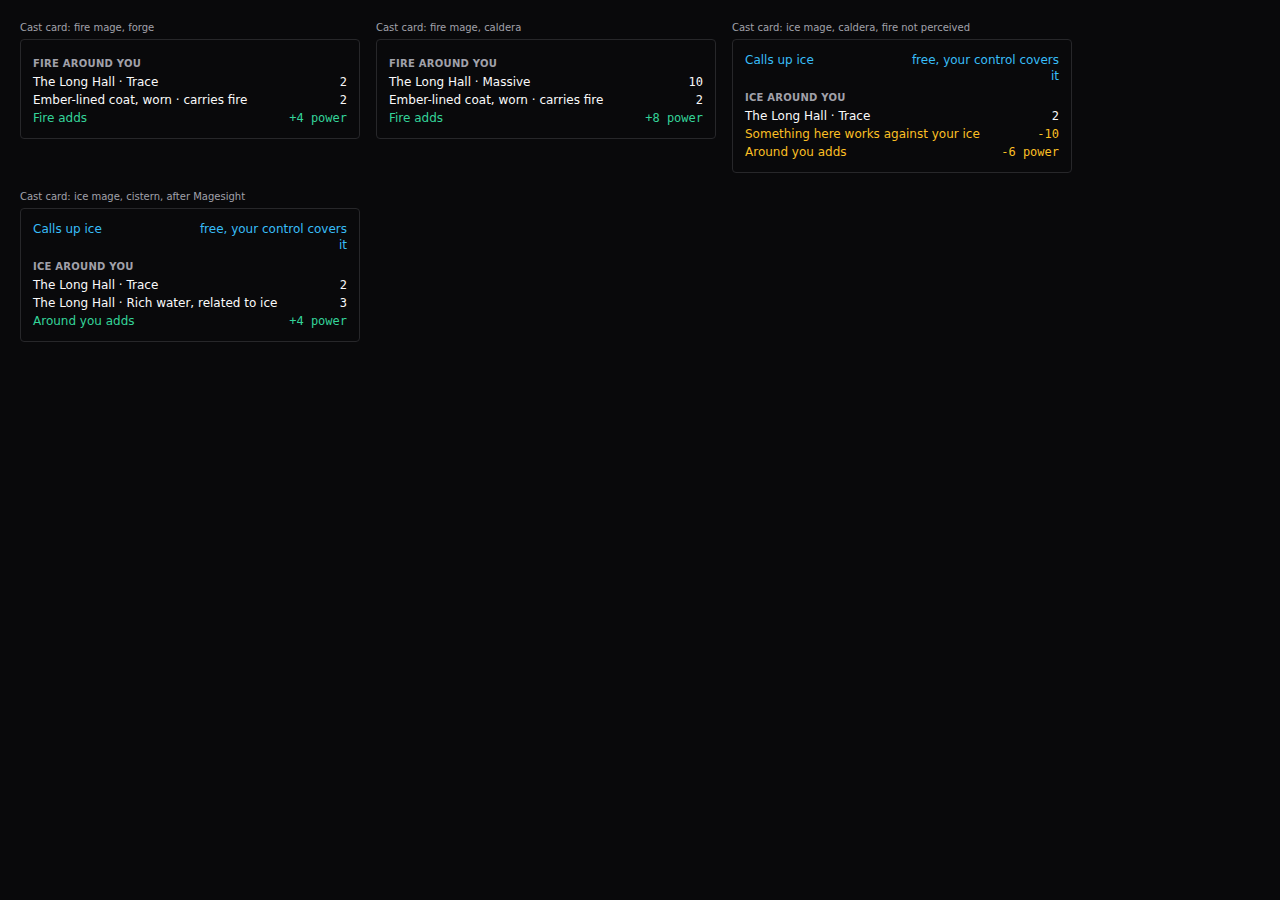
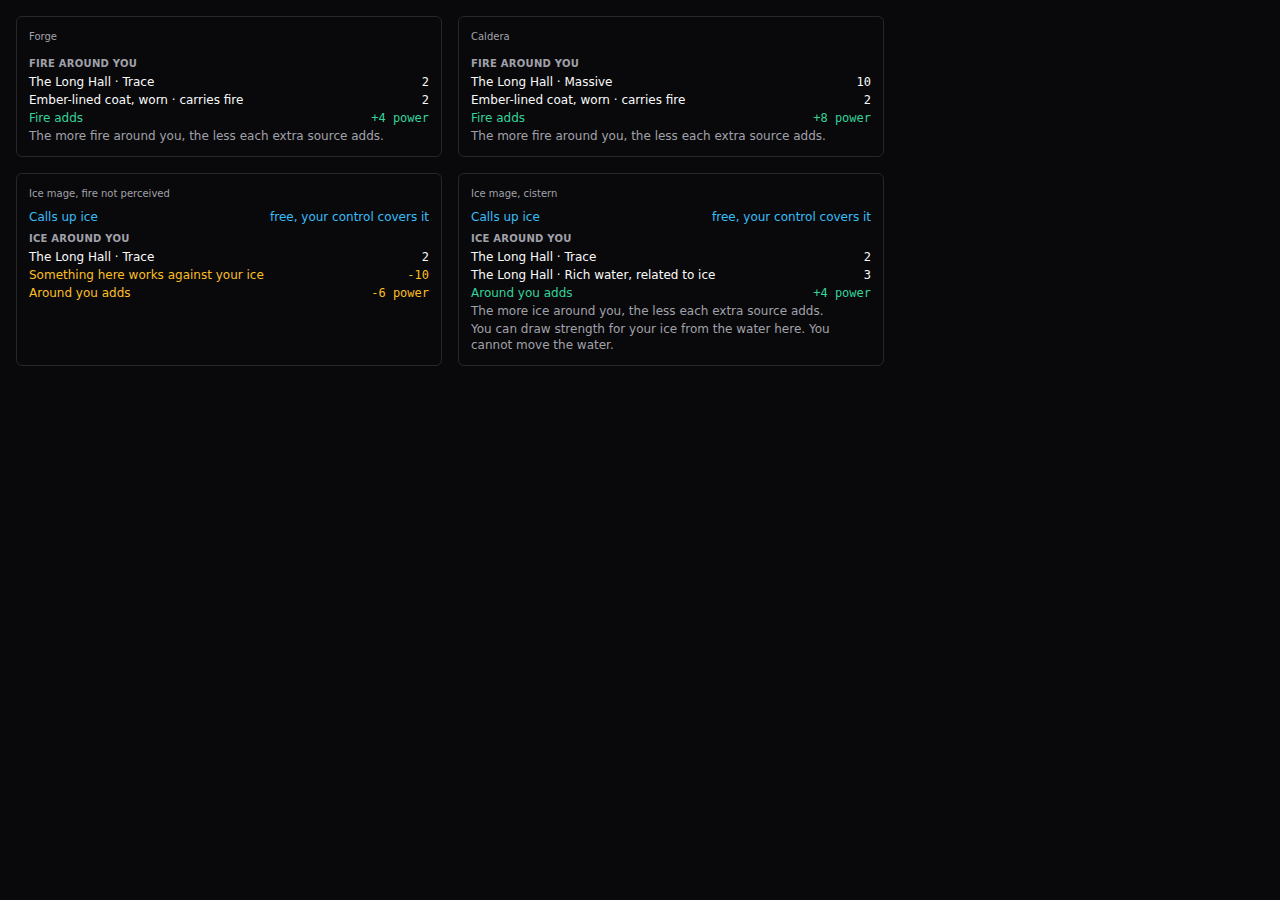
Demo fidelity re-review of #5125 at f42e9d68f: one defect left (Add another link)

diff --git a/docs/reviews/5125/demo-fidelity.md b/docs/reviews/5125/demo-fidelity.md
@@ -1,39 +1,39 @@
-# Demo fidelity review: #5125 Substances and Primum
+# Demo fidelity review: #5125 Substances and Primum (re-review after the pre-PR fixes)
 
 ## Header
 
 | Item | Value |
 |---|---|
-| Reviewed commit | `854d11fafea01ad078ed4798de071ce722f1099d` (branch `feature-5125-substances-and-primum-what-a-gift-works`) |
+| Reviewed commit | `f42e9d68f6269985cb69469e7d0c9941f2f37570` (branch `feature-5125-substances-and-primum-what-a-gift-works`). The first review was of `854d11faf`; the fixes landed in `6c9fb25a2..f42e9d68f`. |
 | Approved design | https://claude.ai/artifact/3AVFkN2kC9i1qJVAhtYrhq (issue #5125 body, "Demo (approved reference once this spec is approved)"), five screens |
-| How the design was read | The `Artifact` tool was not available to this reviewer. The demo was read from the HTML file that the coordinator's own `Artifact read` saved earlier in the session (`tool-results/artifact-11856231-1794882759-ae91.html`, saved 2026-11-17 06:39). That file matches the coordinator's working copy of the demo (`scratchpad/5125/substances-primum-demo.html`) apart from the page wrapper lines. If staff edited the artifact after that read, this review does not cover the edit. |
+| How the design was read | The `Artifact` tool is not available to this reviewer, so the demo was read again from the saved copy used in round one (`scratchpad/rv/demo.html`, the coordinator's `Artifact read` output) and the five reference renders `demo-screen1.png` to `demo-screen5.png`, which were re-opened side by side with every new screenshot. If staff edited the artifact after that read, this review does not cover the edit. |
 | Reference screenshots | `demo-screen1.png` to `demo-screen5.png` (the demo HTML rendered at 1280x900) |
-| Environment | Local devcontainer, SQLite test tier, Django test client for admin, Vite 6.4.5 dev server on port 3457 (stopped afterwards) plus headless Chromium 1208 for the React surfaces. No production or dev database was touched. |
-| Viewport and theme | 1280x900. Admin: light theme (Django admin default). React surfaces: both light and dark (`-light.png` and `-dark.png`). |
-| Owner rulings applied as non-defects | (a) removed fields and relabels, (b) telnet verb `extract`, (c) "Costs N AP", (d) a living creature's Primum does not feed a cast, (e) "Something here strengthens your <own>" |
+| Environment | Local devcontainer, SQLite test tier. Admin pages through the Django test client; React surfaces through a throwaway Vite 6.4.5 page on port 3457 (stopped by pid afterwards, no `just stop`) and headless Chromium 1208. No production or dev database was touched. All throwaway files (two test modules, the Vite page) were deleted before the commit. |
+| Viewport and theme | 1280x900. Admin: light theme. React surfaces: both light and dark (`-light.png` and `-dark.png`). |
+| Rulings applied as non-defects | Owner rulings from round one: removed fields and relabels, telnet verb `extract`, "Costs N AP", a living creature's Primum does not feed a cast, "Something here strengthens your <own>". Controller rulings for this round: the Gift form's last help sentence reads "Minor Gifts have no substance." because the form refuses a substance on a Minor Gift; the "Magesight / Good success" header is the cast result's own display, not the room panel; the unperceived-card extra lines are the spec's approved call-up-to-Trace. |
 
 ## Fixture versus live boundary
 
-- **Live, real code:** admin pages are the real `ModelAdmin` pages rendered through the Django test client against test data built with the branch's factories. Their HTML was saved with its linked admin stylesheets and scripts resolved from disk (`base.css`, `forms.css` and its `@import widgets.css`, `autocomplete.css`, `arx_admin.css`, `SelectFilter2.js` and the others), then screenshotted. The page content is cropped to `#content` (the admin sidebar is hidden to keep the image readable).
-- **Payloads are real server output.** Every JSON shape the React screens consume (room-frame `primum` block, `cast_preview.surroundings`, combat opponent `harvest_offers`, `harvest_primum` dispatch result, crafting quote, item detail with `carries`) was produced by the branch's own serializers and services in throwaway journey-style tests, then deleted. The journeys' `JourneyCase` base is tagged postgres, so they were run once each on the SQLite tier (`arx test --sqlite`, one class at a time); they passed.
-- **React components are the real ones** (`PrimumPanel`, `HarvestPanel` through `PrimumPanel`, `HarvestRow`, `SurroundingsLines`, `CraftingQuotePanel`, `ItemDetailPanel`) mounted in a throwaway Vite page (deleted afterwards) inside the real Redux store and a react-query client.
-- **Fixture boundary:** `window.fetch` in the harness answered the dispatch POST with the recorded real `harvest_primum` result (a mock for the network hop only) and returned empty lists for unrelated item-panel queries. The cast cards show only the surroundings lines (`SurroundingsLines`), not the surrounding cast card shell, so the demo's Cancel and Cast buttons were not rendered. The slain foe row is a minimal wrapper (name and status) around the real `HarvestRow`; the real `CombatantsList` row was not mounted. `AttachFacetDialog` was not mounted; the facet quote shares `CraftingQuotePanel`, which was.
-- **Not rendered:** the Primum step, power curve and harvest outcome inlines on the config admin, the Place Primum and Creature Primum inlines, telnet output other than the `look` line (the journeys' own assertions cover `extract`; see Findings for what they show).
+- **Live, real code:** admin pages are the real `ModelAdmin` pages rendered through the Django test client against rows built with the branch's factories (fire with three stored relationships and a harvest item, a Pyromancy Gift with fire picked). The HTML was saved with every linked admin stylesheet and script resolved from disk, including `forms.css` and the `widgets.css` it imports, then screenshotted with the sidebar hidden. The page is the exact server output, so the script order it contains is the order a browser would run.
+- **Payloads are real server output.** Every JSON shape the React screens consume was produced again by this round's throwaway journey classes (subclasses of the branch's own `_Caldera`, `_PrimumCraft` and `_IceField` journeys, run once on the SQLite tier with `arx test --sqlite`): the room frame `primum` block for three viewers, the combat opponent `harvest_offers` (with the thread bonus), the `harvest_primum` dispatch results for a place and a slain foe, the four `cast_preview.surroundings` cards (including the forge and caldera cards with a worn coat made by the real craft path), the crafting quote for a required Common-or-better Primum and for an optional one, the item detail seen by another character, and the telnet `look` and `extract` output.
+- **React components are the real ones** (`PrimumPanel`, `HarvestPanel` through it, `HarvestRow`, `SurroundingsLines`, `CraftingQuotePanel`, `ItemDetailPanel`) mounted in the real Redux store and a react-query client.
+- **Fixture boundary:** `window.fetch` in the harness answered only the dispatch POST with the recorded real `harvest_primum` result (a mock for the network hop) and returned empty lists for unrelated item-panel queries. The cast cards show only the surroundings lines (`SurroundingsLines`) inside a plain bordered box, not the cast card shell, so the demo's Cancel and Cast buttons were not rendered. The slain-foe row is a minimal wrapper (name and "Slain") around the real `HarvestRow`; the real combat list row was not mounted. `AttachFacetDialog` was not mounted; the facet quote shares `CraftingQuotePanel`, which was. The harvest check line shows "Check: Harvest Primum" because that is the authored check type's name in the test data.
+- **Not rendered:** the Primum step, power curve and harvest outcome inlines on the config admin, the Place Primum and Creature Primum inlines, and telnet output other than what the payload dumps captured (see Findings).
 
 ## Screenshots
 
-Admin (light, 1280 wide): `admin-substance.png`, `admin-gift.png`, `admin-itemtemplate-harvesting.png`, `admin-itemtemplate.png`.
-React, each in `-light` and `-dark`: `fe-s2-room-pyromancer`, `fe-s2-room-no-perception`, `fe-s2-room-magesight`, `fe-s3-cast-cards` (four cards on one page), `fe-s4-harvest-panel`, `fe-s4-harvest-panel-result`, `fe-s4-foe-before`, `fe-s4-foe-after`, `fe-s5-crafting-quote`, `fe-s5-crafting-quote-ticked`, `fe-s5-item-carries`.
+Admin (light, 1280 wide): `admin-substance.png`, `admin-substance-inlines-js-after-jquery-init.png` (the same page with only the script order corrected, as evidence for F12), `admin-gift.png`, `admin-itemtemplate-harvesting.png`, `admin-itemtemplate.png` (both item template shots unchanged since round one, byte identical, so the page did not change).
+React, each in `-light` and `-dark`: `fe-s2-room-pyromancer`, `fe-s2-room-no-perception`, `fe-s2-room-magesight`, `fe-s3-cast-cards` (four cards on one page), `fe-s4-harvest-panel`, `fe-s4-harvest-panel-result`, `fe-s4-foe-before`, `fe-s4-foe-after`, `fe-s5-crafting-quote` (the required Common-or-better row), `fe-s5-crafting-quote-optional` (the optional row), `fe-s5-crafting-quote-ticked`, `fe-s5-item-carries`.
 
 ## Interactions exercised
 
-- Opened the Substance change page for fire with three relationships stored, and the Gift change page for Pyromancy with a substance picked.
-- Opened the Item template page for the Fire Primum template and expanded its Harvesting fieldset.
-- Room panel as a pyromancer (own-gift sense), as a character with no perception, and as a harvester after a sighting of fire and earth.
+- Opened the Substance change page for fire with three stored relationships and a harvest item set, and the Gift change page for Pyromancy with fire picked; loaded the substance page in headless Chromium with the console open and counted the "Add another relationship" link.
+- Opened the Item template page for Fire Primum and expanded its Harvesting fieldset.
+- Room panel as a pyromancer with a thread on her Gift, as a character with no perception, and as a harvester after sightings of fire and earth.
 - Clicked Harvest Primum on the room panel, saw the pick, check line, AP line, Cancel and Harvest, pressed Harvest and read the answer.
-- On a slain elemental: saw the sense line, check line, AP line and Harvest button, pressed Harvest and read the answer.
-- Cast cards for a fire mage at a forge and at a caldera with a worn coat, an ice mage at a caldera not perceiving fire, an ice mage at a cistern after a sighting.
-- Crafting quote for a recipe with optional Fire Primum, ticked the box; item detail of the crafted coat as seen by another character.
+- On a slain elemental viewed by the pyromancer: saw the sense line, check line with the thread bonus, AP line and Harvest button, pressed Harvest and read the answer.
+- Cast cards for a fire mage at a forge with a worn coat, at a caldera with the coat, an ice mage at the caldera not perceiving fire, and an ice mage at a cistern after a sighting.
+- Crafting quote for a recipe requiring Fire Primum, Common or better, and for one taking it optionally (ticked the box); item detail of the crafted coat as another character sees it.
 
 ## Visual checklist
 
@@ -41,47 +41,49 @@ Legend: MATCH (compared on screen against the demo image at the same viewport), 
 
 ### Screen 1 - Admin: one substance, its relationships, the Gift that works it (`demo-screen1.png` vs `admin-substance.png`, `admin-gift.png`, `admin-itemtemplate-harvesting.png`)
 
-| # | Demo element | Built | Status |
+| # | Demo element | Built (at `f42e9d68f`) | Status |
 |---|---|---|---|
-| 1.1 | Breadcrumb "Home > Magic > Substances > Fire", title "Change substance" | Django admin title "Change substance" and object name "fire" shown; breadcrumb is in the cropped-out header and is the stock admin one | MATCH-NOTE |
+| 1.1 | Breadcrumb "Home > Magic > Substances > Fire", title "Change substance" | Title "Change substance" and object name "fire"; the breadcrumb is in the cropped-out header and is the stock admin one | MATCH-NOTE |
 | 1.2 | Name field with help "What the cast card and the roll breakdown call it." | Present, same help | MATCH |
-| 1.3 | "Which room condition feeds it" pick, value "Heat", help "Picked from the room conditions the game already tracks." | Present, same label and help; the option reads "Heat exposure" (existing room-condition label) | MATCH-NOTE |
-| 1.4 | "Stronger when it is" pick, value "Higher" | Present; the option reads "Higher (wetter, windier or hotter, e.g. water, wind or fire)" and the help paragraph is longer than the demo shows | MATCH-NOTE |
+| 1.3 | "Which room condition feeds it" pick, "Heat", help "Picked from the room conditions the game already tracks." | Present, same label and help; the option reads "Heat exposure" (the existing room-condition label) | MATCH-NOTE |
+| 1.4 | "Stronger when it is" pick, "Higher" | Present; the option reads "Higher (wetter, windier or hotter, e.g. water, wind or fire)" with a longer help paragraph | MATCH-NOTE |
 | 1.5 | "Property added to every technique of this gift" with the long help line | Present with the same label and help, as an autocomplete with add/change links | MATCH |
-| 1.6 | "Item created by harvesting" pick (value "Fire Primum") with help "The item template a harvest of this substance makes." on the substance page | Absent from the substance page. The field exists only on the Item template page, inside a collapsed "Harvesting" fieldset, with different help text | GAP (finding F1) |
-| 1.7 | "Relationships" table: rows of Other substance pick, Kind pick (Opposed/Related), Delete box, "add another" | Two dual-list pickers, "Related to" and "Opposed to" (filter box, Choose and Remove arrows). No Kind column, no row table, no "add another" | GAP (finding F2) |
-| 1.8 | Relationship help "Each relationship is authored once and shows on both substances. Relationships never chain: light being related to fire says nothing about what light is to ice." | Help is split over the two lists: "A caster of one of these gets a share of this substance's benefit, and the other way round. Relationships never chain: ..." and "Each of these works against a caster of this substance, and the other way round." The "authored once and shows on both" sentence is gone | GAP (part of F2) |
-| 1.9 | Save button | Admin submit row: Save, Save as new, Save and continue editing, Delete | MATCH-NOTE |
-| 1.10 | Gift form shows Name, Kind (Major), Substance (fire) | All present with the rest of the existing Gift form around them; Substance is an autocomplete with "fire" picked | MATCH |
-| 1.11 | Gift Substance help "The one substance this Gift perceives and controls. Child Gifts inherit it unless they name their own. Minor Gifts usually leave this blank." | Help reads "The one substance this gift works through, such as fire or shadow. Every major gift has one and a minor gift has none." The child-inherits sentence is dropped, and "usually leave blank" became "has none" | GAP (finding F3) |
-| 1.12 | Old per-Gift inline with seven fields gone | No substance inline on the Gift page | MATCH |
-| 1.13 | Credit fields (Written by, Written on, Reviewed by, Reviewed on) not drawn in the demo | Drawn on the substance page (the standard credit block every authored model carries) | MATCH-NOTE |
+| 1.6 | "Item created by harvesting" pick (value "Fire Primum") with help "The item template a harvest of this substance makes." on the substance page | Now present on the substance page, same label and same help, with "Fire Primum" picked (`admin-substance.png`). Was F1 | MATCH |
+| 1.7 | "Relationships" table of rows: Other substance pick, Kind pick (Opposed/Related), Delete box | Now a "RELATIONSHIPS" table with OTHER SUBSTANCE, KIND and DELETE? columns, one row per stored relationship (earth Related, ice Opposed, light Related) and a blank row. Was F2 | MATCH |
+| 1.8 | "add another" link under the table | Absent on the page as served. `inlines.js` is linked before `jquery.init.js`, so it throws `Cannot read properties of undefined (reading 'fn')` and never builds the link; the same page with only the script order corrected shows "+ Add another relationship" and a remove icon (`admin-substance-inlines-js-after-jquery-init.png`) | GAP (finding F12) |
+| 1.9 | Help "Each relationship is authored once and shows on both substances. Relationships never chain: ..." | Present under the table, word for word | MATCH |
+| 1.10 | Save button | Admin submit row: Save, Save as new, Save and continue editing, Delete | MATCH-NOTE |
+| 1.11 | Gift form shows Name, Kind (Major), Substance (fire) | All present within the existing Gift form; Substance is an autocomplete with "fire" picked | MATCH |
+| 1.12 | Gift Substance help "The one substance this Gift perceives and controls. Child Gifts inherit it unless they name their own. Minor Gifts usually leave this blank." | Reads "The one substance this Gift perceives and controls. Child Gifts inherit it unless they name their own. Minor Gifts have no substance." The last sentence differs by controller ruling (the form refuses a substance on a Minor Gift). Was F3 | MATCH (ruling) |
+| 1.13 | Old per-Gift inline with seven fields gone | No substance inline on the Gift page | MATCH |
+| 1.14 | Credit fields (Written by, Written on, Reviewed by, Reviewed on) not drawn in the demo | Drawn on the substance page (the standard credit block every authored model carries) | MATCH-NOTE |
 
-CSS reach (finding class 1): the substance page links `base.css`, `forms.css` (which `@import`s `widgets.css`), `autocomplete.css`, `arx_admin.css`, `nav_sidebar.css` and `responsive.css`, and it renders as a styled admin page in the screenshots, so no unstyled-rule defect here. The pages use the stock `ModelAdmin`/`fieldset.module.aligned` markup, no `as_div` or hand-written labels.
+CSS reach (finding class 1): the substance, Gift and Item template pages link `base.css`, `forms.css` (which imports `widgets.css`), `autocomplete.css`, `arx_admin.css`, `nav_sidebar.css` and `responsive.css` and render as styled admin pages. The new relationship table uses the stock tabular inline markup (`.tabular.inline-related`, `.inline-heading`) that `forms.css` and `base.css` style, and it is drawn correctly. The new template `src/web/templates/admin/magic/substance/change_form.html` writes the inline markup by hand around the form's own formset, which is why the script-order problem in F12 is possible; the existing test asserts that `admin/js/inlines.js` is on the page but not that it runs after `jquery.init.js`.
 
 ### Screen 2 - A place: who perceives the Primum it holds (`demo-screen2.png` vs `fe-s2-*`)
 
 | # | Demo element | Built | Status |
 |---|---|---|---|
-| 2.1 | Pyromancer: card titled "You sense" with row "Fire Primum: Massive", no check needed | `fe-s2-room-pyromancer`: "YOU SENSE" heading (small caps) with "Fire Primum: Massive". A "Harvest Primum" button sits under it (allowed: a mage perceives her own substance, rule 26) | MATCH-NOTE |
+| 2.1 | Pyromancer: card titled "You sense" with row "Fire Primum: Massive", no check needed | `fe-s2-room-pyromancer`: "YOU SENSE" heading with "Fire Primum: Massive" and a Harvest Primum button (allowed: a mage perceives her own substance) | MATCH-NOTE |
 | 2.2 | Character with no perception sees only the room description | `fe-s2-room-no-perception`: nothing rendered under the description | MATCH |
-| 2.3 | After Magesight: "Magesight / Good success" header row | Not in the room panel. The technique's own result is a separate message, not part of the sense block | GAP (finding F4) |
-| 2.4 | After Magesight: rows "Fire Primum: Massive" then "Earth Primum: Trace" (strongest first) | `fe-s2-room-magesight`: both rows, in the order Earth Trace then Fire Massive | GAP (finding F5) |
-| 2.5 | "You see this until you leave the place." | Absent from the room panel and from the server payload | GAP (finding F4) |
-| 2.6 | Telnet `look` shows the same "You sense" line | Real `look` output ends "You sense earth Primum: Trace. You sense fire Primum: Rich." (one sentence per substance) | MATCH |
+| 2.3 | After Magesight: "Magesight / Good success" header row | Not in the room panel. By controller ruling this header is the cast result's own display | MATCH (ruling). Was F4 part 1 |
+| 2.4 | After Magesight: rows "Fire Primum: Massive" then "Earth Primum: Trace" (strongest first) | `fe-s2-room-magesight`: Fire Massive then Earth Trace. Was F5 | MATCH |
+| 2.5 | "You see this until you leave the place." | Present under the rows when any row came from a sighting, and absent for the pyromancer's own substance. Was F4 part 2 | MATCH |
+| 2.6 | Telnet `look` shows the same "You sense" line | Real `look` after the sightings ends "You sense fire Primum: Massive. You sense earth Primum: Trace." (strongest first, one sentence per substance); the pyromancer's `look` ends "You sense fire Primum: Massive." | MATCH |
 
 ### Screen 3 - Casting: one bonus from everything around them (`demo-screen3.png` vs `fe-s3-cast-cards-*.png`)
 
 | # | Demo element | Built | Status |
 |---|---|---|---|
-| 3.1 | Forge card: heading "Fire around you", source "The forge . Trace 1", source "Ember-lined coat, worn . carries fire 2", total "Fire adds +3 power" | Heading "FIRE AROUND YOU", "The Long Hall . Trace 2", "Ember-lined coat, worn . carries fire 2", "Fire adds +4 power". Same structure and wording; numbers differ because the demo's numbers are examples | MATCH |
-| 3.2 | Caldera card: "The Ashmouth Caldera . Massive 8", coat 2, "Fire adds +7 power" | "The Long Hall . Massive 10", coat 2, "Fire adds +8 power". Same structure | MATCH |
-| 3.3 | Caldera card hint "The more fire around you, the less each extra source adds." | Absent. No such string exists in the frontend or the server | GAP (finding F6) |
-| 3.4 | Unperceived card: heading "Around you", one line "Something here works against your ice -6 power" | Heading "ICE AROUND YOU" with "Calls up ice, free, your control covers it", "The Long Hall . Trace 2", "Something here works against your ice -10", total "Around you adds -6 power". The foreign substance is not named, as designed. The extra lines come from the spec's recorded technical call that a cast with none of her substance calls it up to Trace | MATCH-NOTE (finding F7, scope note) |
-| 3.5 | Cistern card: "Around you", "The flooded cistern . Rich water, related to ice 3", "Related substances add +3 power" | "ICE AROUND YOU" heading, Trace 2, "The Long Hall . Rich water, related to ice 3", total "Around you adds +4 power". Source wording matches; total label differs because the ice Trace source is also present | MATCH-NOTE (F7) |
-| 3.6 | Cistern hint "You can draw strength for your ice from the water here. You cannot move the water." | Absent from the frontend and the server | GAP (finding F6) |
-| 3.7 | Heading drawn in small caps, power lines coloured, amounts right-aligned | Same: caps heading, right-aligned monospace amounts, green positive power, amber negative | MATCH |
-| 3.8 | Cancel and Cast buttons | Not rendered (cast card shell is untouched by this diff) | N/R |
+| 3.1 | Forge card: heading "Fire around you", "The forge . Trace 1", "Ember-lined coat, worn . carries fire 2", "Fire adds +3 power" | "FIRE AROUND YOU", "The Long Hall . Trace 2", "Ember-lined coat, worn . carries fire 2", "Fire adds +4 power". Same structure and wording; the numbers are the demo's examples | MATCH |
+| 3.2 | Caldera card: "The Ashmouth Caldera . Massive 8", coat 2, "Fire adds +7 power" | "The Long Hall . Massive 10", coat 2, "Fire adds +8 power" | MATCH |
+| 3.3 | Caldera hint "The more fire around you, the less each extra source adds." | Present on the caldera card, same words, muted style. Was F6 part 1 | MATCH |
+| 3.4 | Forge card has no hint | The same hint also shows on the forge card, because the rule adds it whenever two or more sources add points and the forge card has two (the place and the coat) | GAP (finding F13, minor) |
+| 3.5 | Unperceived card: heading "Around you", one line "Something here works against your ice -6 power" | "ICE AROUND YOU" with "Calls up ice, free, your control covers it", Trace 2, "Something here works against your ice -10", total "Around you adds -6 power". The foreign substance is not named. The extra lines come from the spec's recorded call that a cast calls her own substance up to Trace; the card has no hint | MATCH-NOTE (F7 scope note) |
+| 3.6 | Cistern card: "The flooded cistern . Rich water, related to ice 3", "Related substances add +3 power" | Trace 2, "The Long Hall . Rich water, related to ice 3", total "Around you adds +4 power". Source wording matches; the total label differs because her own Trace source is also present | MATCH-NOTE (F7) |
+| 3.7 | Cistern hint "You can draw strength for your ice from the water here. You cannot move the water." | Present, same words. The build also shows the taper hint above it (two sources add), which the demo's cistern card does not | MATCH (extra line is F13). Was F6 part 2 |
+| 3.8 | Heading in small caps, power lines coloured, amounts right-aligned | Same: caps heading, right-aligned monospace amounts, green positive power, amber negative | MATCH |
+| 3.9 | Cancel and Cast buttons | Not rendered (the cast card shell is untouched by this diff) | N/R |
 
 ### Screen 4 - Harvesting: from a place, and from a slain creature (`demo-screen4.png` vs `fe-s4-*`)
 
@@ -90,26 +92,27 @@ CSS reach (finding class 1): the substance page links `base.css`, `forms.css` (w
 | 4.1 | Title "Harvest Primum", label "Draw out" | Both present (`fe-s4-harvest-panel`) | MATCH |
 | 4.2 | Pick of "Fire Primum . Massive" and "Earth Primum . Trace" as chips | Same labels as radio buttons with the first selected, not chips | MATCH-NOTE |
 | 4.3 | Check line "Check: Wits + Harvesting" | "Check: Harvest Primum" (the authored check type's name) | MATCH-NOTE |
-| 4.4 | (ruling c) AP cost line | "Costs 2 AP" | MATCH |
+| 4.4 | AP cost line (ruling) | "Costs 2 AP" | MATCH |
 | 4.5 | Cancel and Harvest buttons | Both present, Harvest primary | MATCH |
-| 4.6 | Result "Good success. You draw out 2 Fire Primum (Fine)." | "Success. You draw out 2 Fire Primum (Fine)." (real server text, tier name differs with the forced outcome) | MATCH |
-| 4.7 | Result second line "The caldera now holds a Rich amount of fire Primum. It refills over many weeks." | "Fire Primum here is now Rich." The refill sentence and the place name are gone | GAP (finding F8) |
-| 4.8 | Slain foe: "The fire elemental is destroyed." heading and "Slain" tag | Not rendered (wrapper only); the real combat row was not mounted | N/R |
+| 4.6 | Result "Good success. You draw out 2 Fire Primum (Fine)." | "Success. You draw out 2 Fire Primum (Fine)." (the tier name follows the forced outcome) | MATCH |
+| 4.7 | Result second line "The caldera now holds a Rich amount of fire Primum. It refills over many weeks." | "The Ashmouth Caldera now holds a Rich amount of fire Primum. It refills slowly." (`fe-s4-harvest-panel-result`). Names the place and says whether and how it refills; "slowly" for "over many weeks" is a wording difference. Was F8 | MATCH-NOTE |
+| 4.8 | Slain foe: "The fire elemental is destroyed." heading and "Slain" tag | Wrapper shows the name and "(Slain)"; the real combat row was not mounted | N/R |
 | 4.9 | "You sense fire Primum in its remains." | Present, exact text (`fe-s4-foe-before`) | MATCH |
-| 4.10 | Check line "Check: Wits + Harvesting . +2 from your thread on Pyromancy (example)" | "Check: Harvest Primum". The thread-bonus half is not shown; the payload carries no bonus figure | GAP (finding F9) |
-| 4.11 | Harvest button, then "Success. You draw out 1 Fire Primum (Common)." and "Nothing more can be drawn from the elemental." | Harvest button present, answer "Success. You draw out 2 Fire Primum (Fine)." and "Nothing more can be drawn from elemental." (the article is missing) | MATCH-NOTE |
-| 4.12 | Telnet `extract fire` and `extract fire from elemental` | Verified only through the branch's own journeys (`test_primum_harvest_journeys`) which assert those two lines, not re-run here | N/R |
+| 4.10 | Check line "Check: Wits + Harvesting . +2 from your thread on Pyromancy" | "Check: Harvest Primum . +10 from your thread on Pyromancy" for the pyromancer with a level-200 thread; the figure is the real bonus. Was F9 | MATCH-NOTE |
+| 4.11 | Harvest button, then "Success. You draw out 1 Fire Primum (Common)." and "Nothing more can be drawn from the elemental." | Harvest button, "Success. You draw out 2 Fire Primum (Fine)." and "Nothing more can be drawn from elemental." (`fe-s4-foe-after`); the article is still missing | MATCH-NOTE (finding F14, minor) |
+| 4.12 | Telnet `extract fire` and `extract fire from elemental` | Bare `extract` now prints "You can extract fire Primum (Rich) here." then "Check: Harvest Primum . +10 from your thread on Pyromancy" then "Each attempt costs 2 AP, whatever you roll."; the place answer over telnet ends with the same place line as the web. The foe line over telnet was not re-captured | MATCH-NOTE |
 
 ### Screen 5 - Crafting: Primum as a material, for an item and for a facet (`demo-screen5.png` vs `fe-s5-*`)
 
 | # | Demo element | Built | Status |
 |---|---|---|---|
-| 5.1 | Coat recipe lists required materials ("Wool cloth . 2 have 4") and "Fire Primum . 1, Common or better have 3" | Quote panel shows an optional checkbox row "Fire Primum . 1 (optional)" with "have 1". There is no minimum-quality wording and the recipe is not drawn as a required-with-floor | GAP (finding F10) |
-| 5.2 | Facet recipe "Fire Primum . 1 (optional) have 2" | Same wording and layout for the optional row (shared `CraftingQuotePanel`); the facet dialog itself was not mounted | MATCH-NOTE |
-| 5.3 | "Check: Dexterity + Tailoring" line | Not shown; the panel shows "Skill cap: Common" and "On failure: ..." instead. The panel is existing code, not changed by this diff | GAP (finding F11) |
-| 5.4 | Craft and Attach buttons | Not part of the quote panel; N/R | N/R |
-| 5.5 | Result card "Ember-lined coat . Fine / Carries fire" | `fe-s5-item-carries`: item detail panel with "Carries fire" under the stats, shown from `carries: ["fire"]` that another character reads | MATCH |
-| 5.6 | Silver ring "Facet: Flame / Carries fire" | The same `carries` line renders on any item; a facet-attached item was not captured | N/R |
+| 5.1 | Coat recipe lists "Fire Primum . 1, Common or better have 3" | `fe-s5-crafting-quote`: "Fire Primum . 1, Common or better" with "have 3" at the right (red when short). Was F10 | MATCH |
+| 5.2 | Facet recipe "Fire Primum . 1 (optional) have 2" | `fe-s5-crafting-quote-optional` and `-ticked`: a tick box, "Fire Primum . 1 (optional)", "have 3" at the right; the facet dialog itself was not mounted | MATCH-NOTE |
+| 5.3 | "Check: Dexterity + Tailoring" line | "Check: Enchanting" (the recipe's check type name). The panel keeps its existing "Skill cap" and "On failure" lines. Was F11 | MATCH-NOTE |
+| 5.4 | Wool cloth row ("Wool cloth . 2 have 4") | The test recipe has no other material, so no second row was drawn; the row layout is the same one | N/R |
+| 5.5 | Craft and Attach buttons | Not part of the quote panel | N/R |
+| 5.6 | Result card "Ember-lined coat . Fine / Carries fire" | `fe-s5-item-carries`: item detail panel with "Carries fire" under the stats, shown to another character from `carries: ["fire"]` (quality reads Common in this data) | MATCH |
+| 5.7 | Silver ring "Facet: Flame / Carries fire" | The same `carries` line renders on any item; a facet-attached item was not captured | N/R |
 
 ## Criterion verdicts
 
@@ -117,35 +120,38 @@ CSS reach (finding class 1): the substance page links `base.css`, `forms.css` (w
 |---|---|---|
 | Report names the exact commit, environment, viewport and theme | PASS | Header |
 | Screenshots are committed files under `docs/reviews/5125/` | PASS | Screenshots section |
-| Approved design reached | PASS with caveat | Read from the coordinator's saved Artifact file; the live artifact was not reachable by this reviewer |
-| Finding class 1 (rule reaches the page) on the admin pages | PASS | Rendered with the stylesheets resolved from disk; `forms.css` and `widgets.css` reach the page |
+| Approved design reached | PASS with caveat | Read from the saved Artifact copy; the live artifact was not reachable by this reviewer |
+| Finding class 1 (rule reaches the page) on the admin pages | PASS | `forms.css` and `widgets.css` reach all three pages; the relationship table is styled |
+| Finding class 1 for behaviour (script reaches the page in a runnable order) | FAIL | F12: `inlines.js` runs before `jquery.init.js`, so "Add another relationship" never appears |
 | Finding class 2 (host CSS contract) | PASS | Stock admin markup; React uses the shared Tailwind tokens |
-| Screen 1 | FAIL | F1, F2, F3 |
-| Screen 2 | FAIL | F4, F5 |
-| Screen 3 | FAIL (copy) | F6; structure matches |
-| Screen 4 | FAIL (copy) | F8, F9 |
-| Screen 5 | FAIL (gaps) | F10, F11 |
-| Divergences covered by owner rulings | PASS | Removed fields, labels, `extract`, AP cost, unperceived wording all as ruled |
-| Overall | **FAIL** | Eleven findings; none block play, five change approved copy or layout |
+| Screen 1 | Matches with one gap | F12 |
+| Screen 2 | Matches | F4 and F5 fixed |
+| Screen 3 | Matches with one gap | F13 (taper hint also on the forge card); F6 fixed |
+| Screen 4 | Matches with one nit | F14; F8 and F9 fixed |
+| Screen 5 | Matches | F10 and F11 fixed |
+| Divergences covered by rulings | PASS | Gift help last sentence, Magesight header, call-up-to-Trace card lines, round-one rulings |
+| Overall | **FAIL (one defect)** | F12 is a real, demo-visible defect with a one-line fix; every other round-one finding is resolved or ruled |
+
+## Round-one findings and their status
+
+- **F1 (harvest item on the substance page):** fixed. Row 1.6.
+- **F2 (relationship rows):** fixed. Rows 1.7 and 1.9. The "add another" half is the new F12.
+- **F3 (Gift help):** fixed with the controller's ruling on the last sentence. Row 1.12.
+- **F4 (Magesight header and "You see this until you leave the place."):** the header is ruled the cast result's own display; the line is built. Rows 2.3 and 2.5.
+- **F5 (strongest first):** fixed in the panel, the payload and `look`. Rows 2.4 and 2.6.
+- **F6 (hint lines):** built. Rows 3.3 and 3.7. The rule is slightly too wide, see F13.
+- **F7 (call-up-to-Trace lines on the unperceived card):** ruled, the spec's approved call. Rows 3.5 and 3.6.
+- **F8 (place name and refill line):** fixed. Row 4.7.
+- **F9 (thread bonus on the check line):** fixed. Row 4.10.
+- **F10 (required Primum with a quality floor):** fixed. Row 5.1.
+- **F11 (check on the crafting card):** fixed. Row 5.3.
 
 ## Unresolved findings
 
-Each is a defect against the approved demo unless the note says it is a scope question for the human.
-
-- **F1 (defect or scope question):** The "Item created by harvesting" field is not on the Substance page. The demo draws it there (`demo-screen1.png`, annotation "the Harvested as field"). The build put `ItemTemplate.primum_substance` on the Item template page (`src/world/items/admin.py` line 317, label set in `src/world/items/template_admin_parts.py` line 117), as the technical design in the issue says ("`primum_substance` on `ItemTemplate`"). The demo and the technical design disagree, so the human decides which wins. If the demo wins, the substance form needs a field that reads the template the other way round.
-- **F2 (defect):** Relationships are two dual-list pickers (`SubstanceAdminForm.related_to` and `.opposed_to`, `src/world/magic/admin.py` lines 1188 to 1265), not the demo's table of rows with a Kind pick and "add another". The issue's technical design also says "SubstanceAdmin with relation inline". The two-list form is a reasonable answer to the pair-stored-once rule, but it is not the approved layout and drops the "authored once and shows on both substances" help line. Needs a human call.
-- **F3 (defect):** The Gift form's Substance help text dropped the approved wording: "Child Gifts inherit it unless they name their own. Minor Gifts usually leave this blank." (`GiftAdminForm.Meta.help_texts`, `src/world/magic/admin.py` line 1120).
-- **F4 (defect or scope question):** After Magesight the demo shows a "Magesight / Good success" header on the sense block and the line "You see this until you leave the place." Neither is built in `PrimumPanel` (`frontend/src/game/components/room-panel/PrimumPanel.tsx`) or in the room payload. The spec's scope does not say they are out.
-- **F5 (defect):** The sense rows are not strongest first. The demo lists Fire Massive above Earth Trace after a good-success Magesight; the real payload and panel list Earth Trace first (alphabetical). The spec says a plain success names the strongest, which implies strongest first.
-- **F6 (defect or scope question):** Two approved hint lines are not built: "The more fire around you, the less each extra source adds." on the caldera card, and "You can draw strength for your ice from the water here. You cannot move the water." on the cistern card. No such string exists in `frontend/src` or `src/world`. Not recorded in the spec as out of scope.
-- **F7 (scope note, not a defect):** An ice mage at the caldera who has not perceived the fire gets a card with "Calls up ice", an ice Trace source, the unnamed fire line and a total, not the demo's single unnamed line. This follows the spec's "Calls made in the technical design" (a cast calls her own substance up to Trace). It is listed so the human can confirm that call overrides the demo's single-line card.
-- **F8 (defect):** The place harvest answer's second line reads "Fire Primum here is now Rich." The demo's approved copy names the place and says how it refills: "The caldera now holds a Rich amount of fire Primum. It refills over many weeks." (`remaining_line` from the harvest service, `src/world/magic/services/harvest.py`).
-- **F9 (defect):** The slain-foe check line does not mention the thread bonus ("+2 from your thread on Pyromancy"). `HarvestOffer` carries only `check_name` and `ap_cost` (`frontend/src/hooks/types.ts`), so the bonus is not on screen even though the spec gives a matching thread a bonus on the check.
-- **F10 (scope question):** The demo's coat recipe draws Primum as a required material with a quality floor ("Common or better"). The build has only an optional flag (`CraftingMaterialRequirement.is_optional`) and no minimum-quality field, so a required Primum with a floor cannot be authored. The spec text says a recipe can require or optionally take Primum, but does not mention a floor.
-- **F11 (scope question):** The demo's crafting card shows "Check: Dexterity + Tailoring". The quote panel has never shown the check (it shows skill cap and failure risk) and this diff does not change that. Whether the approved design expected it to be added is the human's call.
-
-Minor wording differences that are not findings: "Heat exposure" and the longer "Higher (...)" option labels come from existing room-condition choice labels; "Nothing more can be drawn from elemental." drops the article.
+- **F12 (defect, finding class 1 for scripts):** The "Add another relationship" link the demo draws under the relationships table is not on the page. `SubstanceAdminForm`'s `Media` (`src/world/magic/admin.py` line 1358, `js = ["admin/js/inlines.js"]`) merges after `jquery.min.js` but before `jquery.init.js`, so `inlines.js` line 21 reads `django.jQuery` while it is still undefined, throws, and never defines `$.fn.formset`. Django's own inline media lists `jquery.js`, `jquery.init.js` and then `inlines.js`; listing the three in that order here fixes it. Evidence: `admin-substance.png` (no link) against `admin-substance-inlines-js-after-jquery-init.png` (the same HTML with only the script order changed: "+ Add another relationship" and a remove icon appear). Staff can still add one relationship per save through the blank row.
+- **F13 (defect, minor):** The taper hint "The more <name> around you, the less each extra source adds." shows on every card with two or more adding sources, including the forge card and the cistern card, where the demo shows it only on the caldera card (`fe-s3-cast-cards-light.png`). The demo's intent is that the hint appears where the curve is actually tapering the total; the build's rule fires earlier. The human may accept the wider rule; it is listed because the demo's forge card has none.
+- **F14 (nit):** "Nothing more can be drawn from elemental." still lacks the article the demo shows ("the elemental"); the sentence is written in `src/world/magic/services/harvest.py` (`remaining_line`) from `opponent.name`. The fix report already notes this.
 
 ## Proposed mechanical companion
 
-A `SubstanceAdminTests` assertion that the rendered substance change page contains a `<label>` for the harvest-item field and one row per stored relationship, so F1 and F2 cannot drift again, and a frontend test that `PrimumPanel` orders `sensed` rows by step rank descending (F5).
+A `SubstanceAdminTests` assertion on the rendered change page that `admin/js/jquery.init.js` appears before `admin/js/inlines.js` in the page's script list (F12), and a check that every `<script src>` on the page resolves from disk. Each earlier proposal (a label for the harvest-item field and one row per stored relationship; a frontend test that `PrimumPanel` orders `sensed` rows strongest first) is, per the fix report, now covered by the branch's own tests (not re-run here).
